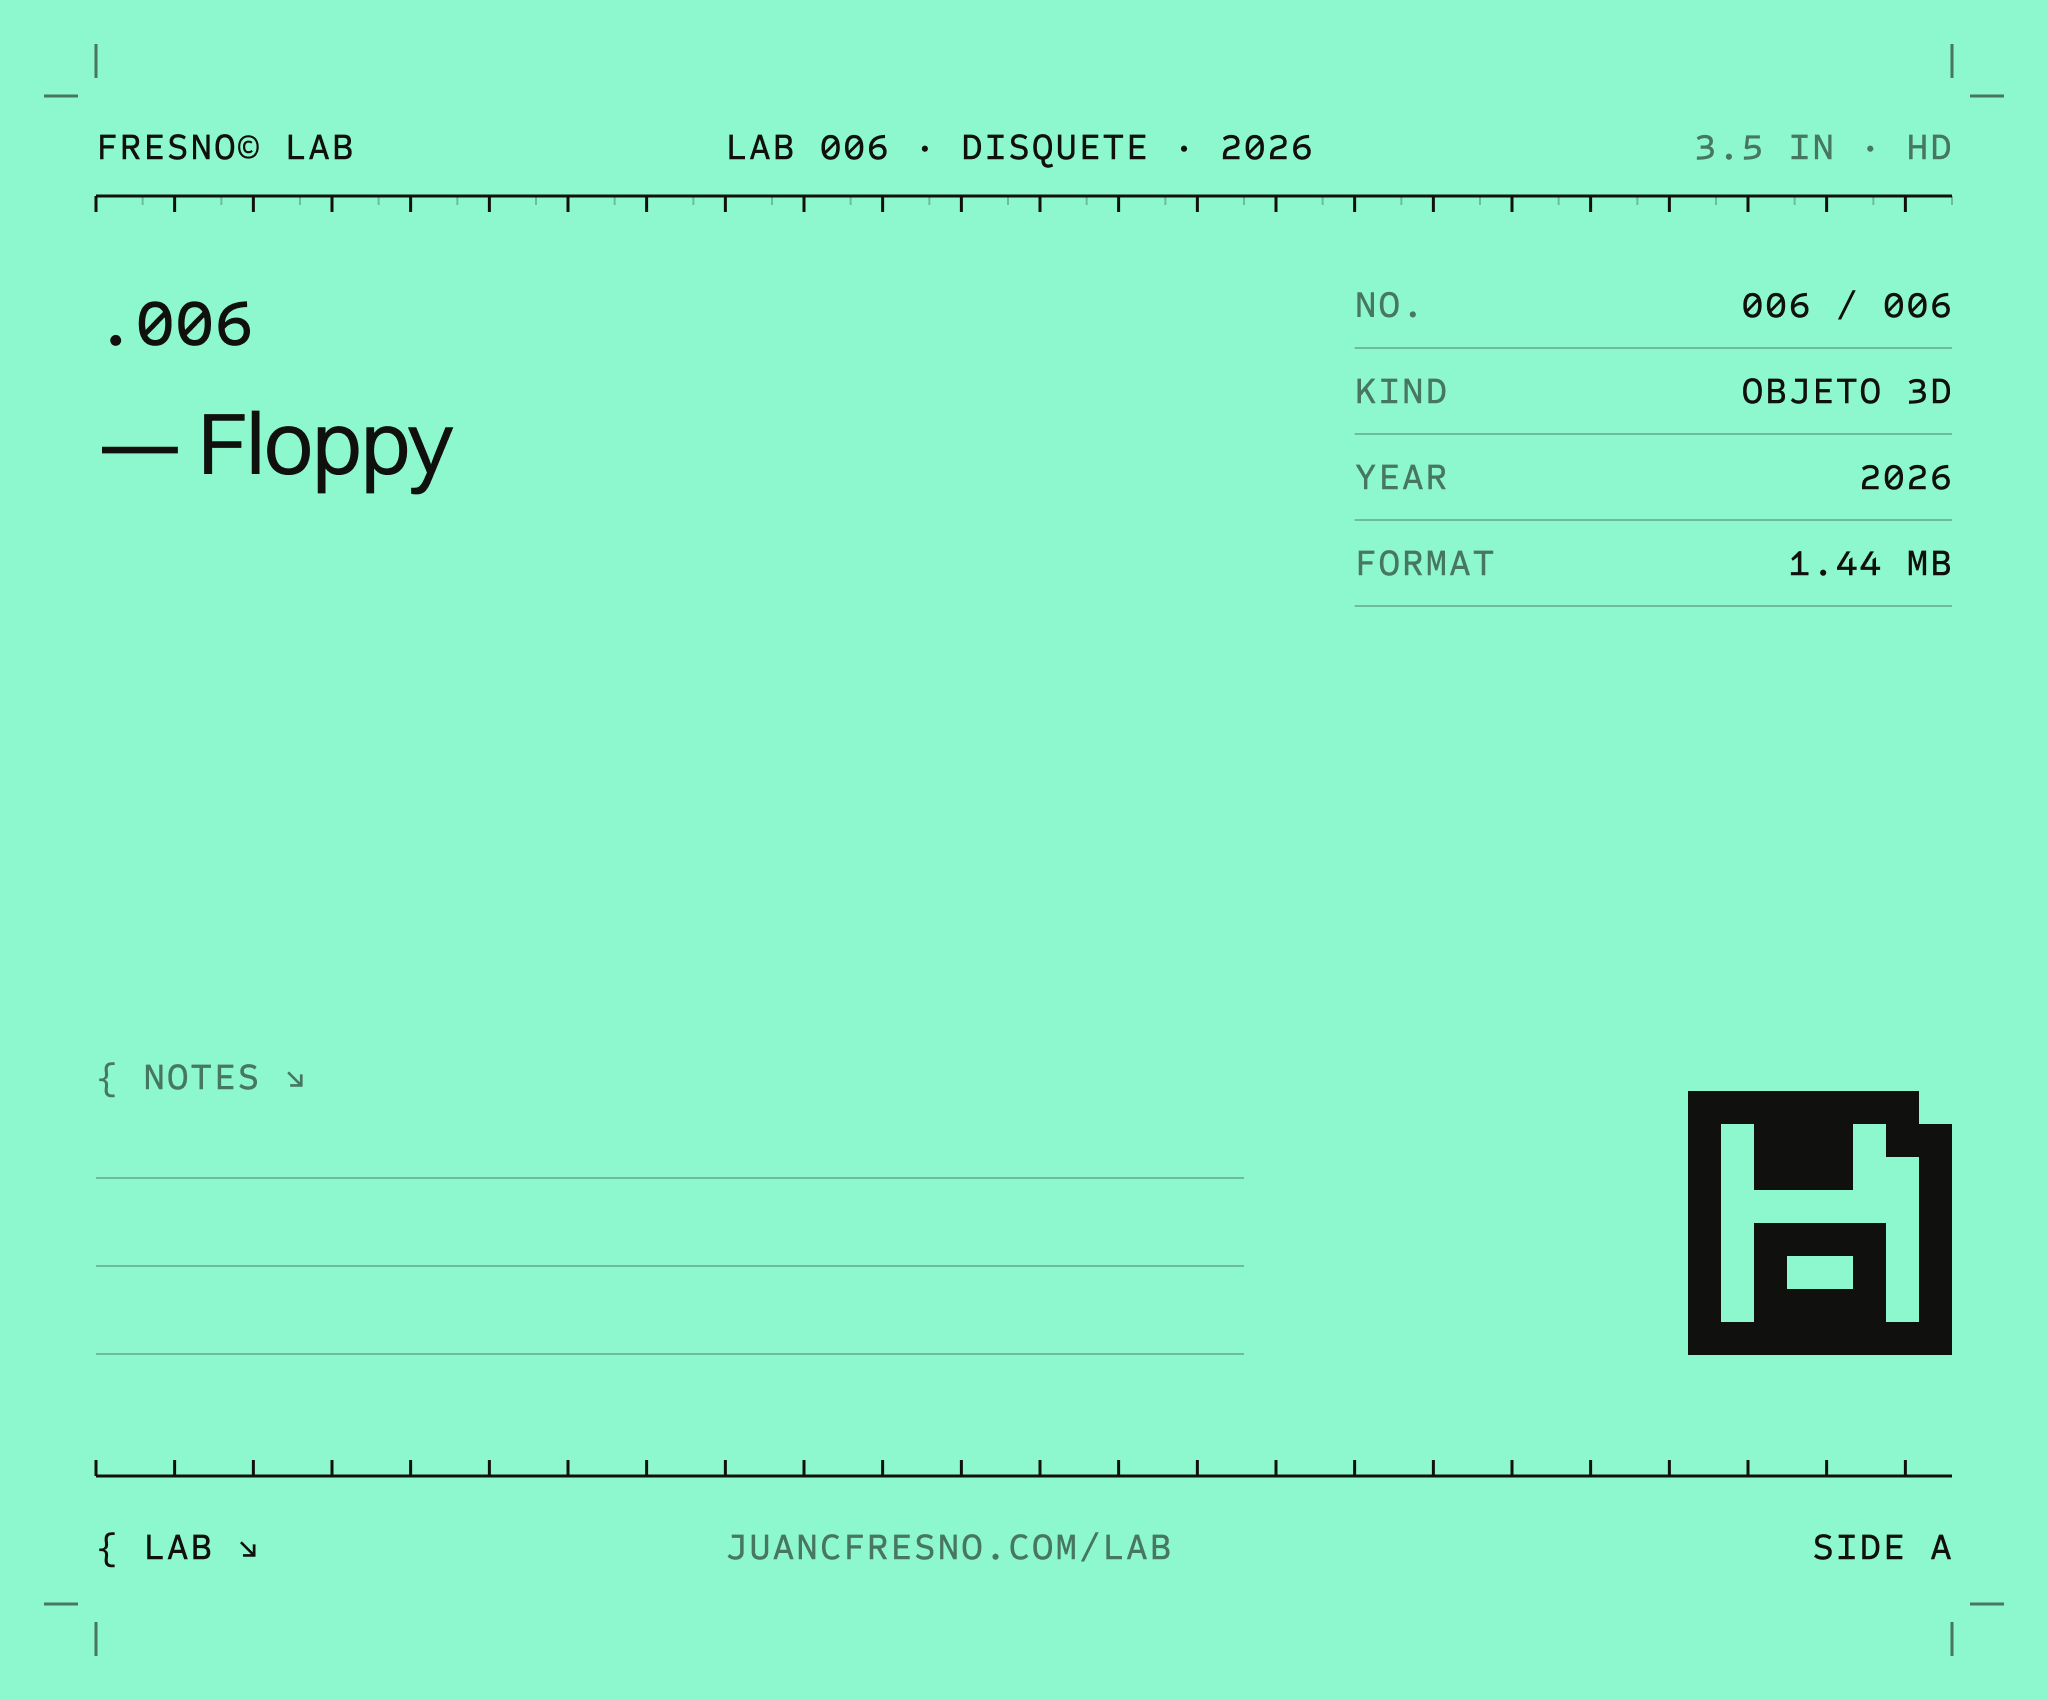
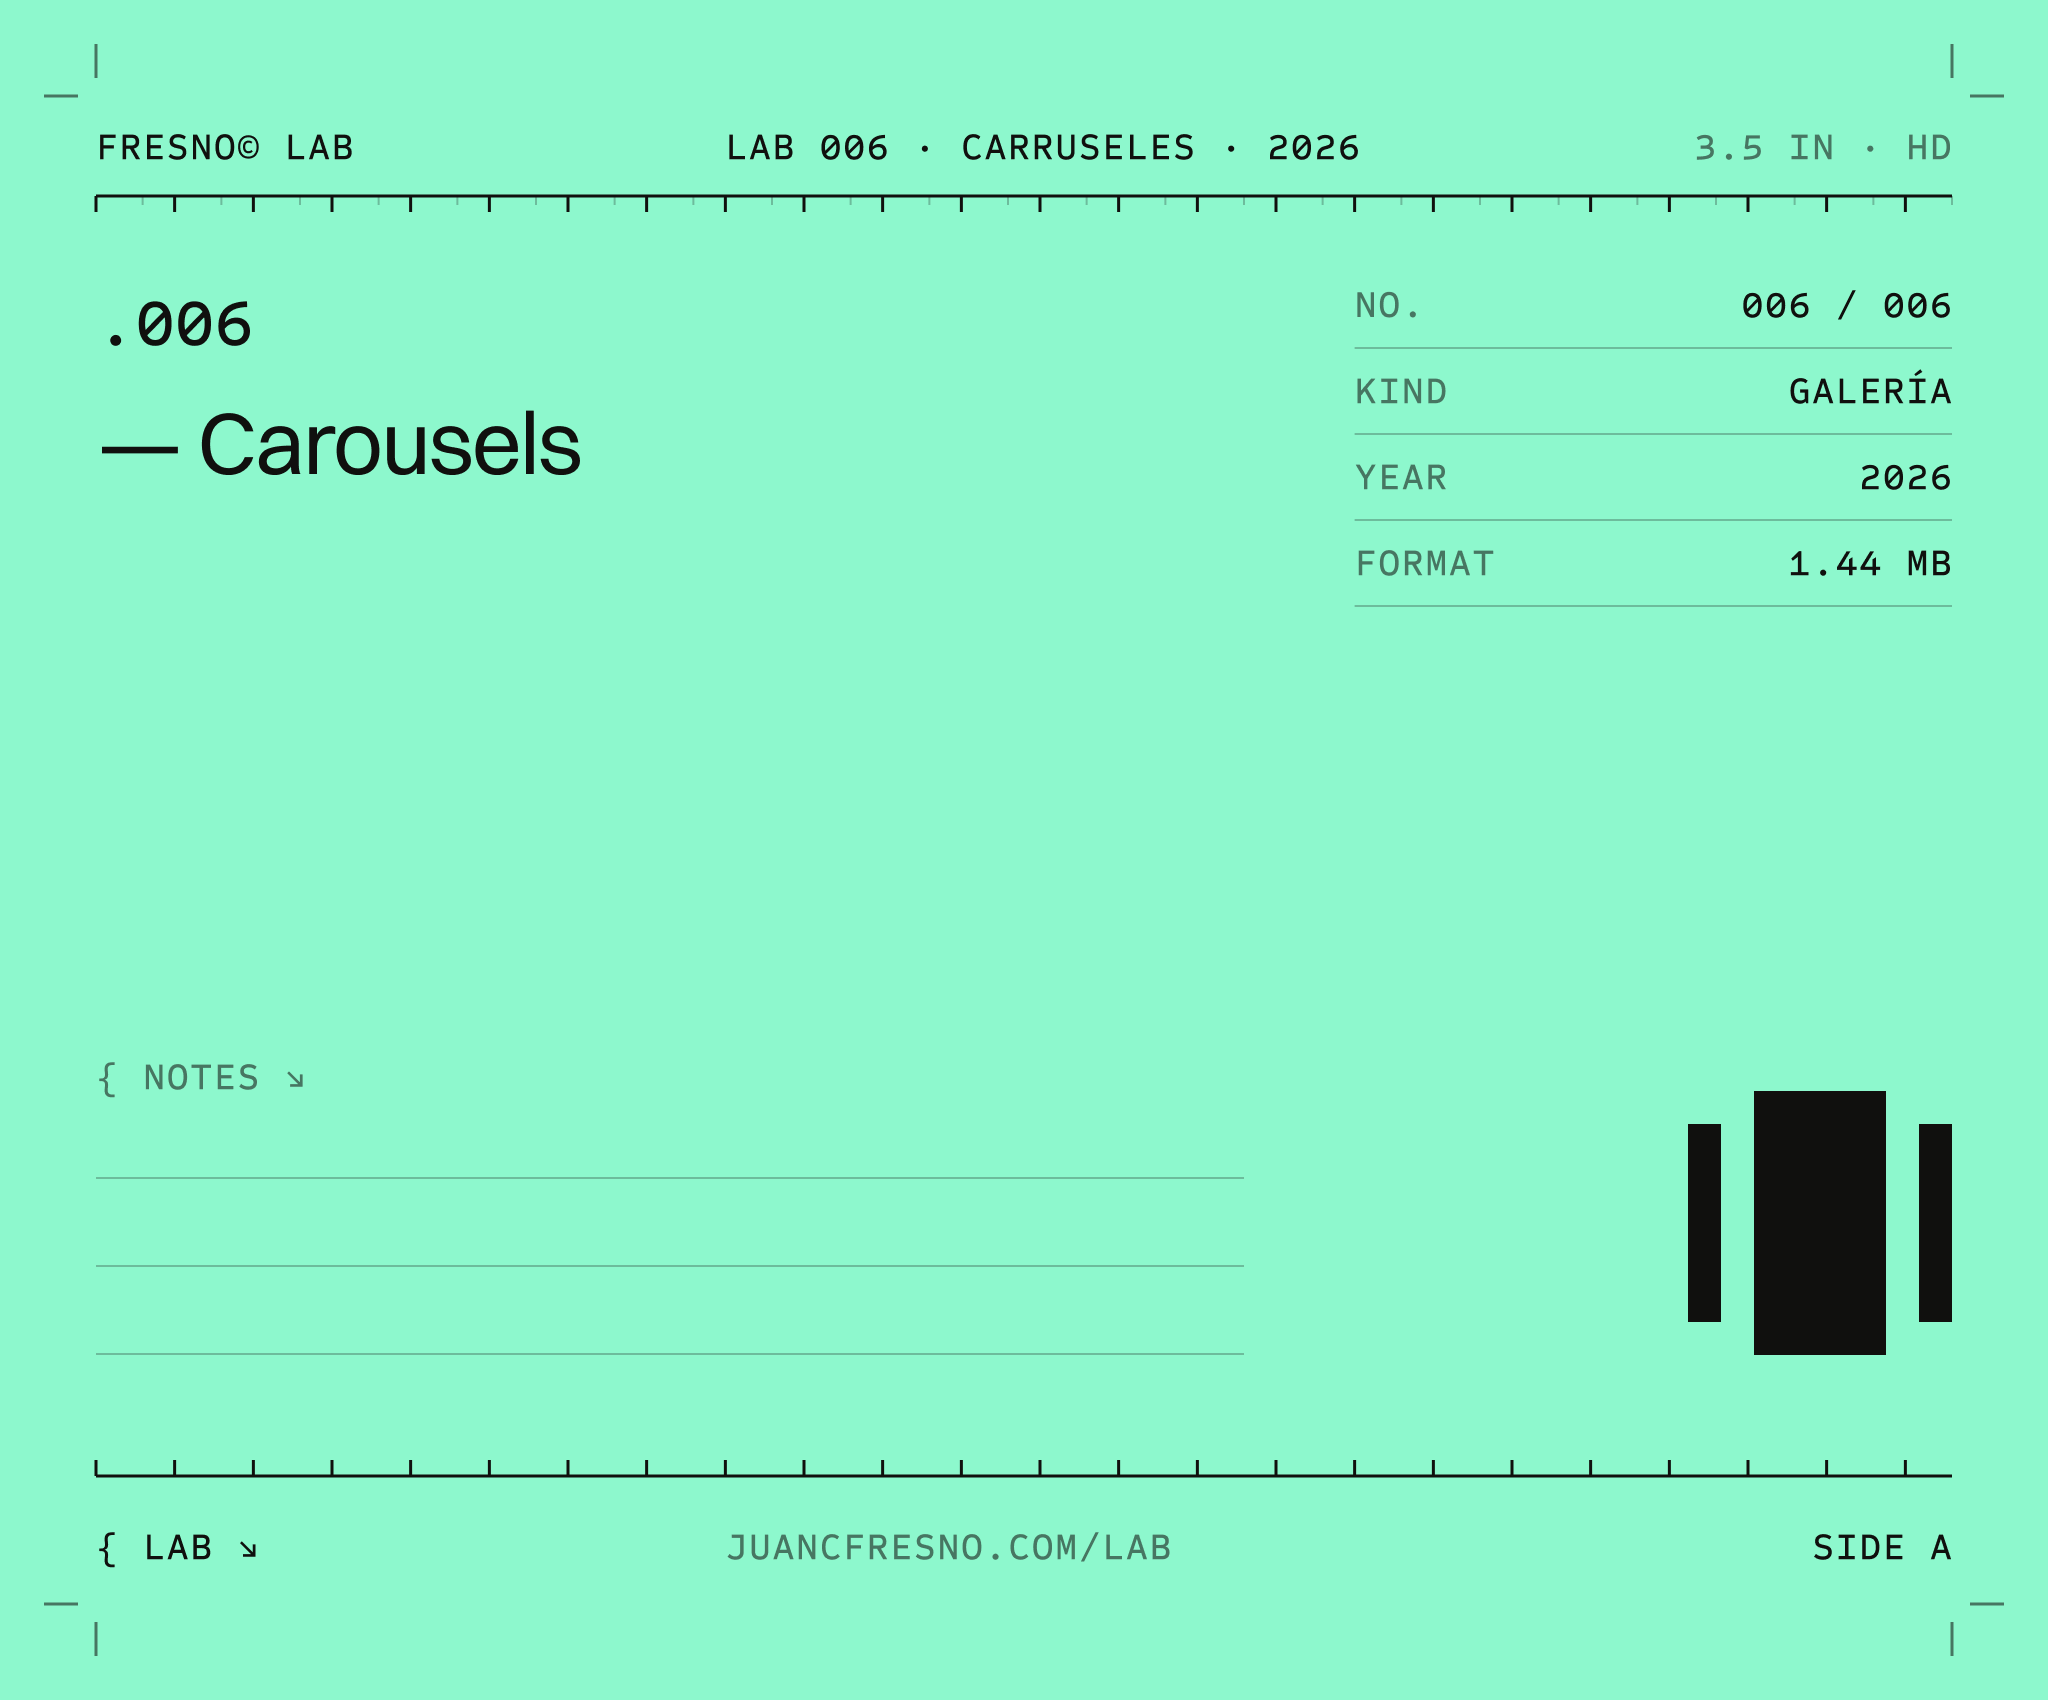
Floppy module: 006 is Carousels (the sixth experiment), not an extra item
Label 006 re-exported from Figma with the Carousels data; the module takes its
six disks straight from EXPERIMENTS again.

diff --git a/src/content/i18n/site.en.ts b/src/content/i18n/site.en.ts
@@ -222,17 +222,6 @@ export const SITE_EN = {
 
   // Lab experiments: each one is a live demo here plus its source in the public repo.
   // Files live in public/lab/<slug>/ (css, js, snippet.html, prompt.md).
-  // The sixth disk of the Lab floppy module: the floppy itself (not an EXPERIMENTS row yet:
-  // it has no /lab/[slug] page, it links to the standalone demo). Draft copy, to review.
-  LAB_FLOPPY: {
-    n: '006',
-    name: 'Floppy',
-    kind: '3D object',
-    year: '2026',
-    what: 'A 3.5-inch floppy disk modelled in code: real proportions, a spring shutter and the magnetic disk inside. Drag it, flip it, open it. It carries every experiment in this Lab.',
-    how: 'three.js with procedural geometry and textures: no models, no images. The shell is built from extruded outlines with bevel profiles; the labels are designed in Figma and mapped on.',
-    built: 'three.js · procedural geometry · no models',
-  },
   EXPERIMENTS: [
     {
       slug: 'botones',

diff --git a/src/components/floppy/FloppyBand.tsx b/src/components/floppy/FloppyBand.tsx
@@ -31,13 +31,11 @@ function labelSrc(n: string) {
 
 // Lab module with the 3D floppies (Figma 7025:21805), for Home and Lab.
 export default function FloppyBand({ locale }: { locale: Locale }) {
-  const { EXPERIMENTS, LAB_FLOPPY } = getSite(locale)
+  const { EXPERIMENTS } = getSite(locale)
   const ui = getUi(locale)
   const items: FloppyItem[] = EXPERIMENTS.map((e, i) => ({
     n: e.n, name: e.name, kind: e.kind, year: e.year, what: e.card, how: e.how, built: e.built, href: localePath(locale, `/lab/${e.slug}`),
     label: labelSrc(e.n), ...SHELLS[i % SHELLS.length],
   }))
-  // 006 · the floppy itself: links to its standalone demo (a static file, no locale prefix)
-  items.push({ ...LAB_FLOPPY, href: '/lab/floppy/index.html', label: labelSrc(LAB_FLOPPY.n), ...SHELLS[items.length % SHELLS.length] })
   return <FloppyModule items={items} labName={ui.lab.h1} labHref={localePath(locale, '/lab')} strings={ui.lab.floppy} />
 }

diff --git a/src/content/i18n/site.es.ts b/src/content/i18n/site.es.ts
@@ -212,15 +212,6 @@ export const SITE_ES: SiteDict = {
     { name: 'GLYF', what: null, status: '—', dot: 'off' },
   ],
 
-  LAB_FLOPPY: {
-    n: '006',
-    name: 'Floppy',
-    kind: 'Objeto 3D',
-    year: '2026',
-    what: 'Un disquete de 3,5 pulgadas modelado con código: proporciones reales, shutter con muelle y el disco magnético dentro. Arrástralo, gíralo, ábrelo. Lleva dentro cada experimento del Lab.',
-    how: 'three.js con geometría y texturas procedurales: sin modelos ni imágenes. La carcasa sale de contornos extruidos con perfiles de bisel; las etiquetas se diseñan en Figma y se aplican encima.',
-    built: 'three.js · geometría procedural · sin modelos',
-  },
   EXPERIMENTS: [
     {
       slug: 'botones',

diff --git a/src/components/floppy/FloppyModule.tsx b/src/components/floppy/FloppyModule.tsx
@@ -50,7 +50,7 @@ export default function FloppyModule({ items, labName, labHref, strings }: Props
   const [ready, setReady] = useState(false)
   const [open, setOpen] = useState(false)
   const [view, setView] = useState<View>('field')
-  const it = items[active]
+  const it = items[Math.min(active, items.length - 1)]
 
   useEffect(() => {
     const el = host.current, cv = canvas.current
